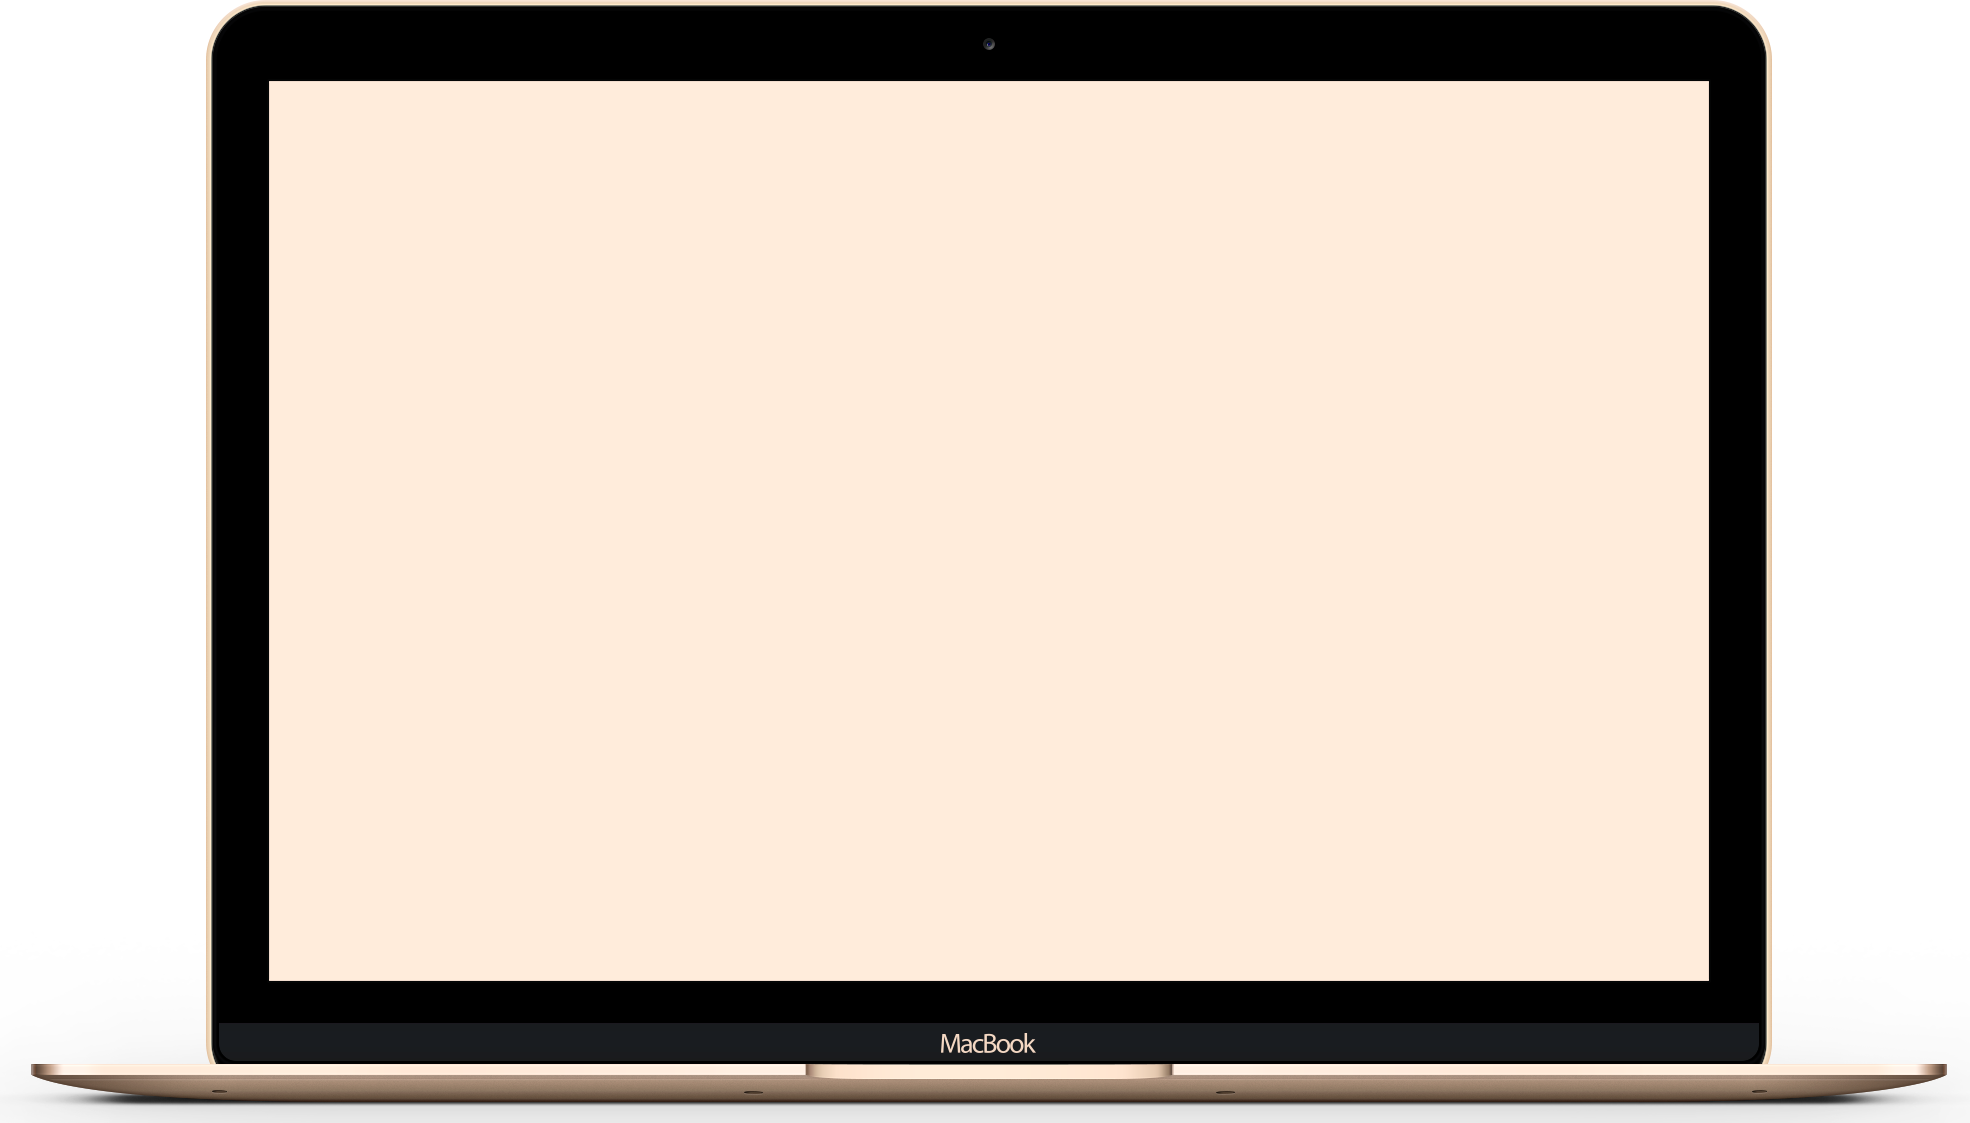
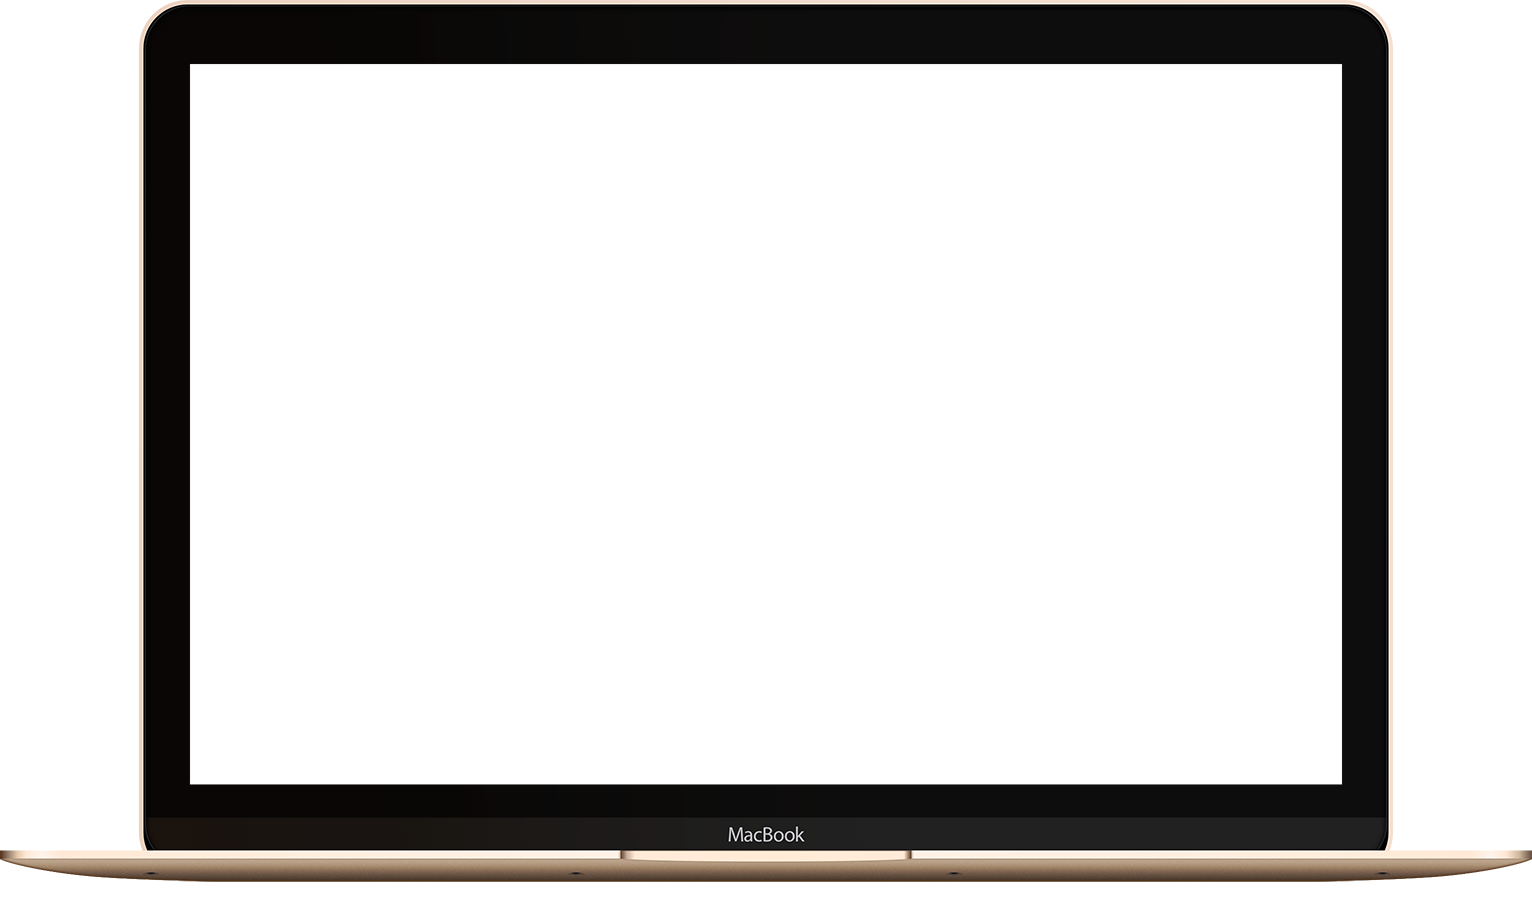
New devices

diff --git a/includes/Classes/Template.class.php b/includes/Classes/Template.class.php
@@ -22,13 +22,13 @@ class Template {
 							'landscape'		=> true
 						);
 
-		$phones['iphone6'] = array(
-							'name' => 'iPhone 6',
-							'image' => 'iphone6.png',
-							'screen' => array('x' => 56, 'y' => 215, 'width' => 751, 'height' => 1334 ),
-							'variations' => $ios_product_variations,
+		$phones['iphone8'] = array(
+							'name' 				=> 'iPhone 8',
+							'image' 			=> 'iphone8.png',
+							'screen' 			=> array('x' => 50, 'y' => 140, 'width' => 375, 'height' => 667 ),
+							'variations' 	=> $ios_product_variations,
 							'landscape'		=> true
-							);
+						);
 
 		$tablets['ipad-air-2'] = array(
 							'name' => 'iPad Air 2',
@@ -46,11 +46,17 @@ class Template {
 							);
 
 		$computers['macbook'] = array(
-							'name' => 'MacBook',
-							'image' => 'macbook.png',
-							'screen' => array('x' => 270, 'y' => 80, 'width' => 1440, 'height' => 900 ),
-							'variations' => $ios_product_variations
-							);
+							'name' 				=> 'MacBook',
+							'image' 			=> 'macbook.png',
+							'screen' 			=> array('x' => 190, 'y' => 64, 'width' => 1152, 'height' => 721 ),
+							'variations' 	=> array('' => 'Space Gray', '--gold' => 'Gold')
+						);
+
+		$computers['imac'] = array(
+							'name' 				=> 'iMac',
+							'image' 			=> 'imac.png',
+							'screen' 			=> array('x' => 57, 'y' => 77, 'width' => 1280, 'height' => 721 ),
+						);
 
 		$phones['samsung-galaxy-s8'] = array(
 							'name' 				=> 'Samsung Galaxy S8',
